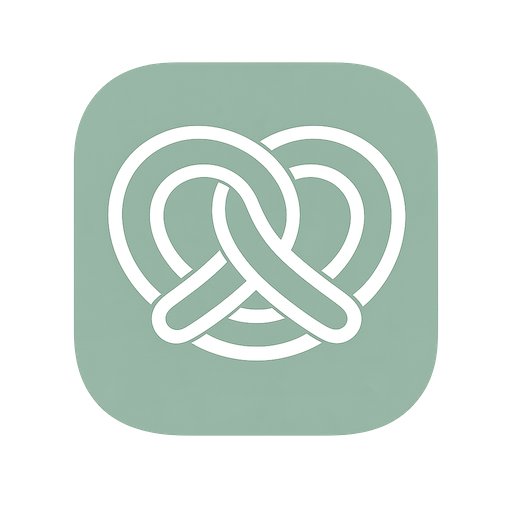
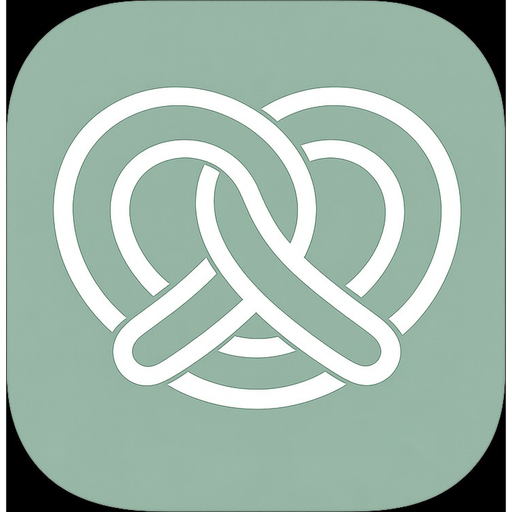
correction icone

diff --git a/src/app/timesheets/page.tsx b/src/app/timesheets/page.tsx
@@ -7,7 +7,7 @@ import { fr } from 'date-fns/locale';
 import {
   Clock, CheckCircle2, XCircle,
   ChevronDown, ChevronUp, AlertCircle, RefreshCw,
-  Coffee, UtensilsCrossed, AlertTriangle, ListChecks,
+  Coffee, UtensilsCrossed, AlertTriangle, ListChecks, Users,
 } from 'lucide-react';
 import toast from 'react-hot-toast';
 import { Header } from '@/components/layout/Header';
@@ -239,10 +239,30 @@ function DeclRow({ decl, onStatusChange }: DeclRowProps) {
                 Départ {minutesToLabel(endDiff)}
               </span>
             )}
-            {!pauseOk && (
-              <span className="text-[11px] font-semibold px-1.5 py-0.5 rounded-lg border bg-amber-50 text-amber-800 border-amber-300 flex items-center gap-0.5">
+          </div>
+          {/* Coches / déclarations journée (visible sans ouvrir le panneau) */}
+          <div className="flex flex-wrap items-center gap-1.5 mt-1.5">
+            {pauseOk ? (
+              <span className="inline-flex items-center gap-0.5 text-[10px] font-medium text-emerald-800 bg-emerald-50 border border-emerald-200 px-1.5 py-0.5 rounded-md">
+                <CheckCircle2 className="w-3 h-3 shrink-0" />
+                Pause 15 min
+              </span>
+            ) : (
+              <span className="inline-flex items-center gap-0.5 text-[10px] font-medium text-amber-800 bg-amber-50 border border-amber-200 px-1.5 py-0.5 rounded-md">
                 <AlertTriangle className="w-3 h-3 shrink-0" />
                 Pas de pause 15 min
+              </span>
+            )}
+            {(decl.had_snack ?? false) && (
+              <span className="inline-flex items-center gap-0.5 text-[10px] font-medium text-slate-700 bg-white border border-slate-200 px-1.5 py-0.5 rounded-md">
+                <Coffee className="w-3 h-3 shrink-0 text-amber-700" />
+                Collation
+              </span>
+            )}
+            {(decl.ate_work_food ?? false) && (
+              <span className="inline-flex items-center gap-0.5 text-[10px] font-medium text-slate-700 bg-white border border-slate-200 px-1.5 py-0.5 rounded-md">
+                <UtensilsCrossed className="w-3 h-3 shrink-0 text-slate-600" />
+                Repas travail
               </span>
             )}
           </div>
@@ -411,6 +431,9 @@ export default function AdminTimesheetsPage() {
   const [refreshing, setRefreshing] = useState(false);
   const [bulkDialogOpen, setBulkDialogOpen] = useState(false);
   const [bulkApproving, setBulkApproving] = useState(false);
+  /** null = tous les employés, sinon l'id de l'employé sélectionné */
+  const [selectedEmployeeId, setSelectedEmployeeId] = useState<string | null>(null);
+  const [empDropdownOpen, setEmpDropdownOpen] = useState(false);
 
   const fetchAll = async (silent = false) => {
     if (!silent) setLoading(true); else setRefreshing(true);
@@ -470,13 +493,40 @@ export default function AdminTimesheetsPage() {
     await fetchAll(true);
   };
 
-  const filtered = useMemo(() => declarations.filter((d) => d.status === tab), [declarations, tab]);
+  // Liste unique des employés (pour le sélecteur), triée par nom
+  const employeeOptions = useMemo(() => {
+    const map = new Map<string, { id: string; name: string; color: string }>();
+    for (const d of declarations) {
+      if (!map.has(d.employee_id) && d.employees) {
+        map.set(d.employee_id, {
+          id: d.employee_id,
+          name: `${d.employees.first_name}${d.employees.last_name ? ' ' + d.employees.last_name : ''}`,
+          color: d.employees.color ?? '#6366f1',
+        });
+      }
+    }
+    return [...map.values()].sort((a, b) => a.name.localeCompare(b.name, 'fr'));
+  }, [declarations]);
+
+  const selectedEmployee = selectedEmployeeId
+    ? employeeOptions.find((e) => e.id === selectedEmployeeId) ?? null
+    : null;
+
+  // Déclarations filtrées par onglet + employé sélectionné
+  const byEmployee = useMemo(
+    () => selectedEmployeeId
+      ? declarations.filter((d) => d.employee_id === selectedEmployeeId)
+      : declarations,
+    [declarations, selectedEmployeeId]
+  );
+
+  const filtered = useMemo(() => byEmployee.filter((d) => d.status === tab), [byEmployee, tab]);
 
   const counts = useMemo(() => ({
-    pending:  declarations.filter((d) => d.status === 'pending').length,
-    approved: declarations.filter((d) => d.status === 'approved').length,
-    rejected: declarations.filter((d) => d.status === 'rejected').length,
-  }), [declarations]);
+    pending:  byEmployee.filter((d) => d.status === 'pending').length,
+    approved: byEmployee.filter((d) => d.status === 'approved').length,
+    rejected: byEmployee.filter((d) => d.status === 'rejected').length,
+  }), [byEmployee]);
 
   return (
     <div className="flex flex-col min-h-screen bg-slate-50">
@@ -551,6 +601,76 @@ export default function AdminTimesheetsPage() {
             </button>
           </div>
         </div>
+
+        {/* ── Filtre par employé ────────────────────────────── */}
+        {employeeOptions.length > 1 && (
+          <div className="relative">
+            <button
+              type="button"
+              onClick={() => setEmpDropdownOpen((v) => !v)}
+              className="flex items-center gap-2 px-4 py-2.5 rounded-xl border border-slate-200 bg-white shadow-sm text-sm font-medium text-slate-700 hover:border-indigo-300 hover:bg-slate-50 transition-colors w-full sm:w-auto"
+            >
+              {selectedEmployee ? (
+                <>
+                  <div
+                    className="w-6 h-6 rounded-full flex items-center justify-center text-white text-[9px] font-bold shrink-0"
+                    style={{ backgroundColor: selectedEmployee.color }}
+                  >
+                    {initials(selectedEmployee.name.split(' ')[0], selectedEmployee.name.split(' ').slice(1).join(' ') || null)}
+                  </div>
+                  <span>{selectedEmployee.name}</span>
+                </>
+              ) : (
+                <>
+                  <Users className="w-4 h-4 text-slate-400" />
+                  <span>Tous les employés</span>
+                </>
+              )}
+              <ChevronDown className={`w-3.5 h-3.5 text-slate-400 ml-auto transition-transform ${empDropdownOpen ? 'rotate-180' : ''}`} />
+            </button>
+
+            {empDropdownOpen && (
+              <>
+                {/* Fond transparent pour fermer */}
+                <div className="fixed inset-0 z-40" onClick={() => setEmpDropdownOpen(false)} />
+                <div className="absolute left-0 top-full mt-1 z-50 bg-white border border-slate-200 rounded-xl shadow-lg py-1.5 w-64 max-h-72 overflow-y-auto animate-fade-in">
+                  {/* Option "Tous" */}
+                  <button
+                    type="button"
+                    onClick={() => { setSelectedEmployeeId(null); setEmpDropdownOpen(false); }}
+                    className={`w-full text-left px-4 py-2.5 flex items-center gap-2.5 text-sm transition-colors ${
+                      !selectedEmployeeId ? 'bg-indigo-50 text-indigo-700 font-semibold' : 'text-slate-700 hover:bg-slate-50'
+                    }`}
+                  >
+                    <Users className="w-5 h-5 text-slate-400 shrink-0" />
+                    <span>Tous les employés</span>
+                    {!selectedEmployeeId && <CheckCircle2 className="w-3.5 h-3.5 text-indigo-500 ml-auto" />}
+                  </button>
+                  <div className="border-t border-slate-100 my-1" />
+                  {employeeOptions.map((emp) => (
+                    <button
+                      key={emp.id}
+                      type="button"
+                      onClick={() => { setSelectedEmployeeId(emp.id); setEmpDropdownOpen(false); }}
+                      className={`w-full text-left px-4 py-2.5 flex items-center gap-2.5 text-sm transition-colors ${
+                        selectedEmployeeId === emp.id ? 'bg-indigo-50 text-indigo-700 font-semibold' : 'text-slate-700 hover:bg-slate-50'
+                      }`}
+                    >
+                      <div
+                        className="w-6 h-6 rounded-full flex items-center justify-center text-white text-[9px] font-bold shrink-0"
+                        style={{ backgroundColor: emp.color }}
+                      >
+                        {initials(emp.name.split(' ')[0], emp.name.split(' ').slice(1).join(' ') || null)}
+                      </div>
+                      <span className="truncate">{emp.name}</span>
+                      {selectedEmployeeId === emp.id && <CheckCircle2 className="w-3.5 h-3.5 text-indigo-500 ml-auto shrink-0" />}
+                    </button>
+                  ))}
+                </div>
+              </>
+            )}
+          </div>
+        )}
 
         {/* ── Contenu ──────────────────────────────────────── */}
         {loading ? (

diff --git a/src/app/layout.tsx b/src/app/layout.tsx
@@ -21,9 +21,12 @@ export const metadata: Metadata = {
     telephone: false,
   },
   icons: {
-    // Même fichier que l’icône PWA : l’iPhone utilise rel="apple-touch-icon" sur cette URL
-    apple: '/icon-512.png',
-    icon: '/icon-512.png',
+    // apple-touch-icon.png = 180×180, généré pour iOS (écran d’accueil)
+    apple: [{ url: '/apple-touch-icon.png', sizes: '180x180', type: 'image/png' }],
+    icon: [
+      { url: '/icon-192.png', sizes: '192x192', type: 'image/png' },
+      { url: '/icon-512.png', sizes: '512x512', type: 'image/png' },
+    ],
     shortcut: '/icon-512.png',
   },
 };
@@ -41,7 +44,9 @@ export default function RootLayout({
         <meta name="apple-mobile-web-app-capable" content="yes" />
         <meta name="apple-mobile-web-app-status-bar-style" content="default" />
         <meta name="apple-mobile-web-app-title" content="Bretzel Planning" />
+        <link rel="icon" type="image/png" sizes="192x192" href="/icon-192.png" />
         <link rel="icon" type="image/png" sizes="512x512" href="/icon-512.png" />
+        <link rel="apple-touch-icon" href="/apple-touch-icon.png" sizes="180x180" />
         <link rel="shortcut icon" href="/icon-512.png" />
       </head>
       <body className="font-sans antialiased bg-slate-50 text-slate-900">

diff --git a/src/app/employee/page.tsx b/src/app/employee/page.tsx
@@ -16,7 +16,7 @@ import {
 } from 'date-fns';
 import { fr } from 'date-fns/locale';
 import { ChevronLeft, ChevronRight, Clock, Sun, Info } from 'lucide-react';
-import { getNextUpcomingWorkEntry, calculateShiftDuration } from '@/lib/utils';
+import { getNextUpcomingWorkEntry, calculateShiftDuration, formatHours } from '@/lib/utils';
 
 interface Shift {
   id: string;
@@ -313,7 +313,7 @@ export default function EmployeeSchedulePage() {
             <Clock className="w-3.5 h-3.5" />
             <span className="text-[11px] font-semibold uppercase tracking-wide">Heures</span>
           </div>
-          <p className="text-2xl font-bold text-slate-800">{totalHours}h</p>
+          <p className="text-2xl font-bold text-slate-800">{formatHours(totalHours)}</p>
           <p className="text-xs text-slate-400 mt-0.5">{statsPeriodLabel}</p>
         </div>
         <div className="bg-white rounded-2xl border border-slate-100 p-4">

diff --git a/src/app/employee/availability/page.tsx b/src/app/employee/availability/page.tsx
@@ -505,7 +505,7 @@ export default function EmployeeAvailabilityPage() {
       <p className="text-xs text-slate-400 text-center pb-2">
         {isLocked
           ? 'Ce mois est verrouillé. Demandez une modification à votre responsable.'
-          : 'Les jours passés ne peuvent pas être modifiés.'}
+          : 'à valider avant le début du mois.'}
       </p>
 
       {/* ── Modal confirmation validation ────────────────────── */}

diff --git a/public/sw.js b/public/sw.js
@@ -1,5 +1,5 @@
 // Service Worker — Bretzel Planning PWA
-const CACHE_NAME = 'bretzel-planning-v3';
+const CACHE_NAME = 'bretzel-planning-v4';
 
 // Fichiers à mettre en cache lors de l'installation
 const STATIC_ASSETS = [
@@ -7,7 +7,9 @@ const STATIC_ASSETS = [
   '/employee',
   '/employee/availability',
   '/manifest.json',
+  '/icon-192.png',
   '/icon-512.png',
+  '/apple-touch-icon.png',
   '/logo-sidebar.png',
 ];
 

diff --git a/scripts/process_app_icon.py b/scripts/process_app_icon.py
@@ -1,0 +1,73 @@
+#!/usr/bin/env python3
+"""
+Recadre les marges noires d'une icône carrée, redimensionne en 1024,
+puis exporte icon-512.png et apple-touch-icon.png (180) pour PWA / iOS.
+"""
+from __future__ import annotations
+
+import sys
+from pathlib import Path
+
+from PIL import Image
+import numpy as np
+
+
+def trim_non_black(im: Image.Image, threshold: int = 28) -> Image.Image:
+    """Recadre sur la zone où le pixel n'est pas (quasi) noir opaque."""
+    rgba = im.convert("RGBA")
+    arr = np.array(rgba)
+    r, g, b, a = arr[:, :, 0], arr[:, :, 1], arr[:, :, 2], arr[:, :, 3]
+    # Visible et pas noir pur (marges)
+    mask = (a > 10) & ((r + g + b) > threshold)
+    if not np.any(mask):
+        return im
+    rows = np.any(mask, axis=1)
+    cols = np.any(mask, axis=0)
+    row_idx = np.where(rows)[0]
+    col_idx = np.where(cols)[0]
+    y0, y1 = int(row_idx[0]), int(row_idx[-1]) + 1
+    x0, x1 = int(col_idx[0]), int(col_idx[-1]) + 1
+    return rgba.crop((x0, y0, x1, y1))
+
+
+def main() -> None:
+    root = Path(__file__).resolve().parents[1]
+    public = root / "public"
+
+    src = Path(sys.argv[1]) if len(sys.argv) > 1 else None
+    if src is None or not src.is_file():
+        print("Usage: process_app_icon.py <source-1024.png>", file=sys.stderr)
+        sys.exit(1)
+
+    im = Image.open(src)
+    trimmed = trim_non_black(im)
+    # Remplit tout le carré 1024 (évite l'effet « petite icône au milieu »)
+    w, h = trimmed.size
+    side = max(w, h)
+    canvas = Image.new("RGBA", (side, side), (0, 0, 0, 0))
+    ox = (side - w) // 2
+    oy = (side - h) // 2
+    canvas.paste(trimmed, (ox, oy), trimmed if trimmed.mode == "RGBA" else None)
+
+    final = canvas.resize((1024, 1024), Image.Resampling.LANCZOS)
+
+    final.save(public / "icon-1024.png", "PNG", optimize=True)
+
+    # PWA / navigateurs
+    final.resize((512, 512), Image.Resampling.LANCZOS).save(
+        public / "icon-512.png", "PNG", optimize=True
+    )
+    final.resize((192, 192), Image.Resampling.LANCZOS).save(
+        public / "icon-192.png", "PNG", optimize=True
+    )
+
+    # iOS écran d'accueil (180×180 recommandé)
+    final.resize((180, 180), Image.Resampling.LANCZOS).save(
+        public / "apple-touch-icon.png", "PNG", optimize=True
+    )
+
+    print(f"OK: icon-1024.png, icon-512.png, icon-192.png, apple-touch-icon.png")
+
+
+if __name__ == "__main__":
+    main()
